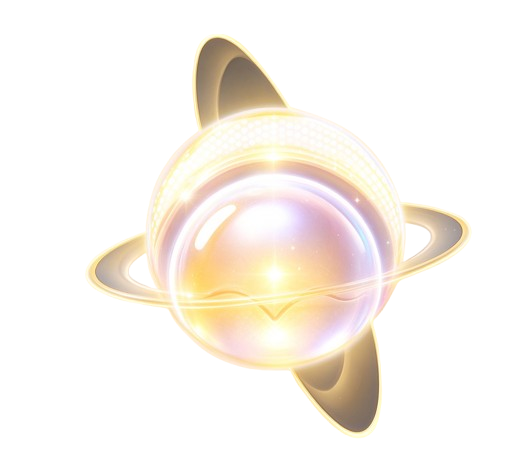
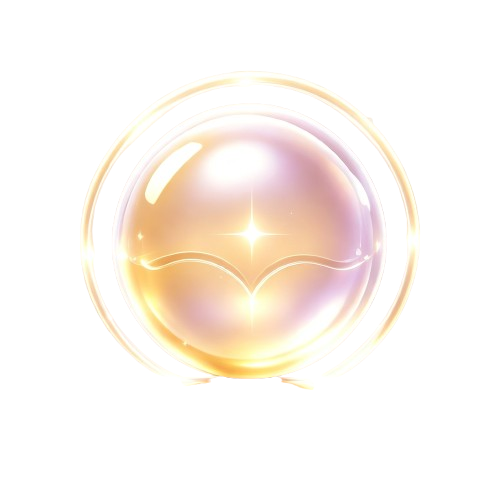
修改旋转样式

Changed region(s): [[0.15, 0.0597, 0.9, 0.9552], [0.3, 0.209, 0.33, 0.2388], [0.27, 0.7164, 0.3, 0.7463]]

diff --git a/src/app/globals.css b/src/app/globals.css
@@ -168,23 +168,25 @@ body {
 }
 
 /* 能量球自转：用独立 rotate 属性而非 transform，避免顶掉元素上已有的 transform（如 -translate-x-1/2） */
-@keyframes energy-spin {
+/*@keyframes energy-spin {
   from {
     rotate: 0deg;
   }
   to {
     rotate: 360deg;
   }
+}*/
+
+/*.energy-orb {
+  *//* animation: energy-spin 18s linear infinite; <- 删掉这行 *//*
+  transition: transform 0.3s ease; *//* 加上这个，留作选中时的放大反馈 *//*
 }
 
-.energy-orb {
-  animation: energy-spin 18s linear infinite;
-}
-
-/* 选中卡片里的球加速旋转，作为选中反馈 */
+*//* 选中卡片里的球加速旋转，作为选中反馈 *//*
 .mood-figure-on .energy-orb {
-  animation-duration: 8s;
-}
+  *//* animation-duration: 8s; <- 删掉这行 *//*
+    transform: scale(1.1); *//* 选中时球体微微放大即可 *//*
+}*/
 
 /* 能量球光环：前后两段半环制造“环绕穿过”的立体感，外环更淡、倾角错开，星点点缀 */
 .orb-halo {
@@ -198,13 +200,13 @@ body {
   width: 130%;
   height: 40%;
   translate: -50% -50%;
-  rotate: -18deg;
+/*  rotate: -18deg;*/
   border: 2px solid color-mix(in srgb, var(--ring) 68%, transparent);
   border-radius: 50%;
   box-shadow:
     0 0 12px color-mix(in srgb, var(--ring) 45%, transparent),
     inset 0 0 12px color-mix(in srgb, var(--ring) 28%, transparent);
-  animation: orb-ring-pulse 4.5s ease-in-out infinite;
+/*  animation: orb-ring-pulse 4.5s ease-in-out infinite;*/
   pointer-events: none;
 }
 
@@ -469,4 +471,166 @@ body {
   border-color: color-mix(in srgb, var(--md-sys-color-primary) 60%, white);
   background: color-mix(in srgb, white 8%, transparent);
   box-shadow: 0 0 24px color-mix(in srgb, var(--md-sys-color-primary) 32%, transparent);
+}
+
+
+
+
+/* =======================================================
+   🌟 覆盖动画：三种心境能量，三种 3D 环绕轨迹
+   ======================================================= */
+
+/* 0. 基础设置：开启 3D 透视，覆盖原本的 rotate */
+.orb-halo {
+  perspective: 600px; /* 开启 3D 透视空间 */
+  --ring: #a89cff;    /* 默认颜色兜底 */
+}
+
+/* 清除原来基础的 -18deg 和呼吸动画，改由各自专属动画控制 */
+.orb-ring {
+  position: absolute;
+  left: 50%;
+  top: 50%;
+  width: 130%;
+  height: 40%;
+  translate: -50% -50%;
+  rotate: 0deg;
+  border: 2px solid color-mix(in srgb, var(--ring) 68%, transparent);
+  border-radius: 50%;
+  box-shadow:
+    0 0 12px color-mix(in srgb, var(--ring) 45%, transparent),
+    inset 0 0 12px color-mix(in srgb, var(--ring) 28%, transparent);
+  pointer-events: none;
+  animation: none !important;
+}
+
+/* 确保球体在中间层，不遮挡前面的环 */
+.energy-orb {
+  animation: none !important; /* 停掉图片本身的死板自转 */
+  transition: transform 0.3s ease, filter 0.3s ease;
+}
+
+/* 选中时的状态：球体微微放大，发光增强（替代加速旋转） */
+.mood-figure-on .energy-orb {
+  transform: scale(1.08);
+  filter: brightness(1.2) drop-shadow(0 0 15px var(--ring));
+}
+
+
+/* =======================================================
+   🌟 针对性 3D 动画配置
+   ======================================================= */
+
+/* -------------------------------------------------------
+   1. 澄光 (liujin) —— 土星斜环，优雅稳定
+   ------------------------------------------------------- */
+.orb-liujin .orb-ring-back {
+  transform: rotateX(65deg) rotateZ(0deg);
+  animation: spinTilted 8s linear infinite !important;
+  /* 制造 3D 空间前后的亮暗变化 */
+  opacity: 0.6;
+}
+.orb-liujin .orb-ring-front {
+  transform: rotateX(65deg) rotateZ(180deg);
+  animation: spinTilted 8s linear infinite !important;
+  opacity: 1;
+}
+.orb-liujin .orb-ring-outer {
+  transform: rotateX(75deg) rotateY(10deg) rotateZ(0deg);
+  animation: spinTiltedReverse 12s linear infinite !important;
+  opacity: 0.4;
+}
+
+/* -------------------------------------------------------
+   2. 蓝漠 (feiyan) —— 水平光带，缓慢逆时针水波感
+   ------------------------------------------------------- */
+.orb-feiyan .orb-ring-back {
+  transform: rotateX(75deg) rotateZ(0deg);
+  animation: spinFlatReverse 15s ease-in-out infinite !important;
+  opacity: 0.5;
+}
+.orb-feiyan .orb-ring-front {
+  transform: rotateX(75deg) rotateZ(180deg);
+  animation: spinFlatReverse 15s ease-in-out infinite !important;
+  opacity: 0.9;
+}
+.orb-feiyan .orb-ring-outer {
+  transform: rotateX(80deg) rotateZ(0deg);
+  animation: spinFlat 18s linear infinite !important;
+  opacity: 0.3;
+}
+/* 蓝漠的球体加上轻微的“呼吸下沉” */
+.orb-feiyan .energy-orb {
+  animation: sinkFloat 5s ease-in-out infinite !important;
+}
+
+/* -------------------------------------------------------
+   3. 赤焰 (jingchuan) —— 3D 双轨交叉，狂躁高转
+   ------------------------------------------------------- */
+.orb-jingchuan .orb-ring-back {
+  transform: rotateX(60deg) rotateY(40deg) rotateZ(0deg);
+  animation: spinCrossFast 2s linear infinite !important;
+  border-width: 2px;
+  opacity: 0.8;
+}
+.orb-jingchuan .orb-ring-front {
+  transform: rotateX(60deg) rotateY(40deg) rotateZ(180deg);
+  animation: spinCrossFast 2s linear infinite !important;
+  border-width: 2px;
+  opacity: 1;
+}
+.orb-jingchuan .orb-ring-outer {
+  transform: rotateX(60deg) rotateY(-40deg) rotateZ(0deg);
+  animation: spinCrossFastReverse 1.5s linear infinite !important;
+  opacity: 0.8;
+}
+/* 赤焰的球体加上高频微颤 */
+.orb-jingchuan .energy-orb {
+  animation: shake 0.15s linear infinite !important;
+}
+
+
+/* =======================================================
+   🌟 关键帧动画定义 (Keyframes)
+   ======================================================= */
+
+/* 倾斜环绕（保持 65 度倾角） */
+@keyframes spinTilted {
+  0%   { transform: rotateX(65deg) rotateZ(0deg); }
+  100% { transform: rotateX(65deg) rotateZ(360deg); }
+}
+@keyframes spinTiltedReverse {
+  0%   { transform: rotateX(75deg) rotateY(10deg) rotateZ(360deg); }
+  100% { transform: rotateX(75deg) rotateY(10deg) rotateZ(0deg); }
+}
+
+/* 扁平水波纹环绕 */
+@keyframes spinFlat {
+  0%   { transform: rotateX(75deg) rotateZ(0deg); }
+  100% { transform: rotateX(75deg) rotateZ(360deg); }
+}
+@keyframes spinFlatReverse {
+  0%   { transform: rotateX(75deg) rotateZ(360deg); }
+  100% { transform: rotateX(75deg) rotateZ(0deg); }
+}
+
+/* 极速 3D 交叉环绕 */
+@keyframes spinCrossFast {
+  0%   { transform: rotateX(60deg) rotateY(40deg) rotateZ(0deg); }
+  100% { transform: rotateX(60deg) rotateY(40deg) rotateZ(360deg); }
+}
+@keyframes spinCrossFastReverse {
+  0%   { transform: rotateX(60deg) rotateY(-40deg) rotateZ(360deg); }
+  100% { transform: rotateX(60deg) rotateY(-40deg) rotateZ(0deg); }
+}
+
+/* 忧伤浮动 / 愤怒颤抖 */
+@keyframes sinkFloat {
+  0%, 100% { transform: translateY(0px); }
+  50% { transform: translateY(3px); }
+}
+@keyframes shake {
+  0% { transform: translate(0, 0) scale(1); }
+  50% { transform: translate(0.8px, -0.8px) scale(1.02); }
+  100% { transform: translate(0, 0) scale(1); }
 }

diff --git a/src/components/doll/DollSelectScreen.tsx b/src/components/doll/DollSelectScreen.tsx
@@ -29,7 +29,8 @@ export function DollSelectScreen({
                     }`}
                 >
                   <span
-                    className="orb-halo relative isolate block h-28 w-28"
+//                     className="orb-halo relative isolate block h-28 w-28"
+                    className={`orb-halo orb-${doll.id} relative isolate block h-28 w-28`}
                     style={{ "--ring": doll.ring } as CSSProperties}
                   >
                     <span className="orb-ring orb-ring-back" aria-hidden />
